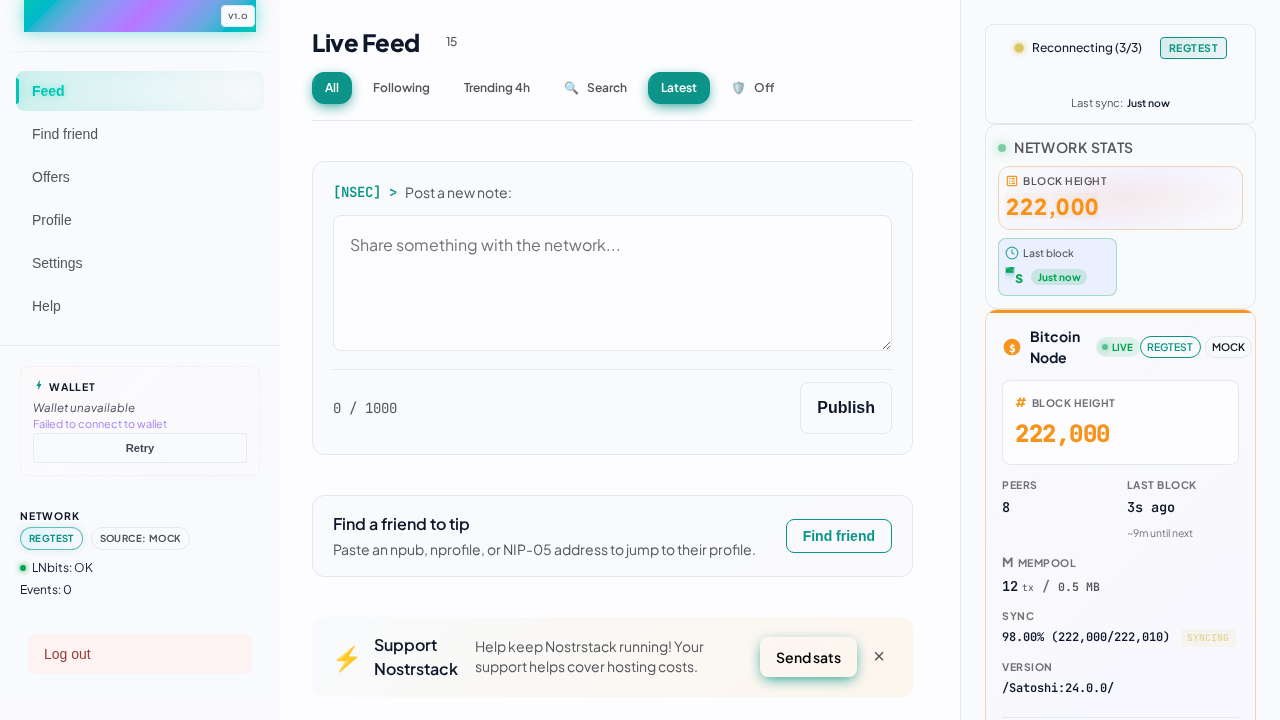
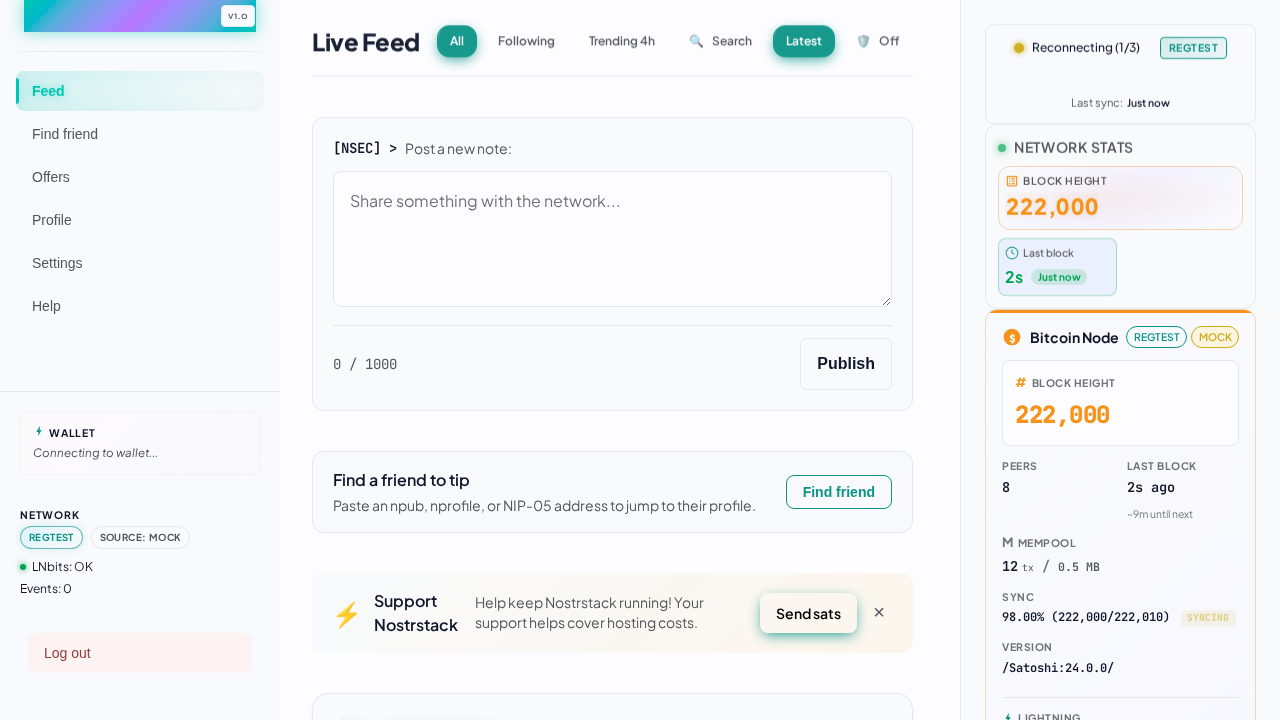
Handle offline bitcoin status polling in UI

diff --git a/packages/react/src/hooks/useBitcoinStatus.ts b/packages/react/src/hooks/useBitcoinStatus.ts
@@ -121,15 +121,36 @@ export function useBitcoinStatus(apiBase?: string): BitcoinStatusState {
       ? 'relative'
       : apiBaseConfig.baseUrl
     : '';
-  const [status, setStatus] = useState<BitcoinStatus | null>(() => (cacheKey ? readCachedStatus(cacheKey) : null));
+  const [status, setStatus] = useState<BitcoinStatus | null>(() =>
+    cacheKey ? readCachedStatus(cacheKey) : null
+  );
   const [error, setError] = useState<string | null>(null);
   const [isLoading, setIsLoading] = useState<boolean>(apiBaseConfig.isConfigured && !status);
+  const [isOnline, setIsOnline] = useState<boolean>(() => {
+    if (typeof navigator === 'undefined') return true;
+    return navigator.onLine;
+  });
   const [refreshToken, setRefreshToken] = useState(0);
+
+  useEffect(() => {
+    if (typeof window === 'undefined') return;
+    const handleOnline = () => setIsOnline(true);
+    const handleOffline = () => setIsOnline(false);
+
+    setIsOnline(window.navigator.onLine);
+    window.addEventListener('online', handleOnline);
+    window.addEventListener('offline', handleOffline);
+
+    return () => {
+      window.removeEventListener('online', handleOnline);
+      window.removeEventListener('offline', handleOffline);
+    };
+  }, []);
 
   const refresh = useCallback(() => {
     if (!cacheKey) return;
     statusCache.delete(cacheKey);
-    setRefreshToken(prev => prev + 1);
+    setRefreshToken((prev) => prev + 1);
   }, [cacheKey]);
 
   useEffect(() => {
@@ -137,6 +158,11 @@ export function useBitcoinStatus(apiBase?: string): BitcoinStatusState {
       setStatus(null);
       setIsLoading(false);
       setError(apiBaseConfig.isMock ? 'API base is mock.' : 'API base not configured.');
+      return;
+    }
+    if (!isOnline) {
+      setIsLoading(false);
+      setError('Bitcoin status updates are paused while offline.');
       return;
     }
 
@@ -153,14 +179,17 @@ export function useBitcoinStatus(apiBase?: string): BitcoinStatusState {
     setError(null);
     const baseUrl = apiBaseConfig.isRelative ? '' : apiBaseConfig.baseUrl;
     fetchBitcoinStatusCached(cacheKey, baseUrl)
-      .then(data => {
+      .then((data) => {
         if (cancelled) return;
         setStatus(data);
         setError(null);
       })
-      .catch(err => {
+      .catch((err) => {
         if (cancelled) return;
-        const message = err instanceof Error ? err.message : 'Bitcoin status unavailable.';
+        const rawMessage = err instanceof Error ? err.message : 'Bitcoin status unavailable.';
+        const message = /^HTTP\s+\d+:/.test(rawMessage)
+          ? `Bitcoin status unavailable. ${rawMessage}`
+          : rawMessage;
         setError(message);
       })
       .finally(() => {
@@ -171,7 +200,15 @@ export function useBitcoinStatus(apiBase?: string): BitcoinStatusState {
     return () => {
       cancelled = true;
     };
-  }, [apiBaseConfig.baseUrl, apiBaseConfig.isConfigured, apiBaseConfig.isMock, apiBaseConfig.isRelative, cacheKey, refreshToken]);
+  }, [
+    apiBaseConfig.baseUrl,
+    apiBaseConfig.isConfigured,
+    apiBaseConfig.isMock,
+    apiBaseConfig.isRelative,
+    cacheKey,
+    refreshToken,
+    isOnline
+  ]);
 
   return {
     status,
